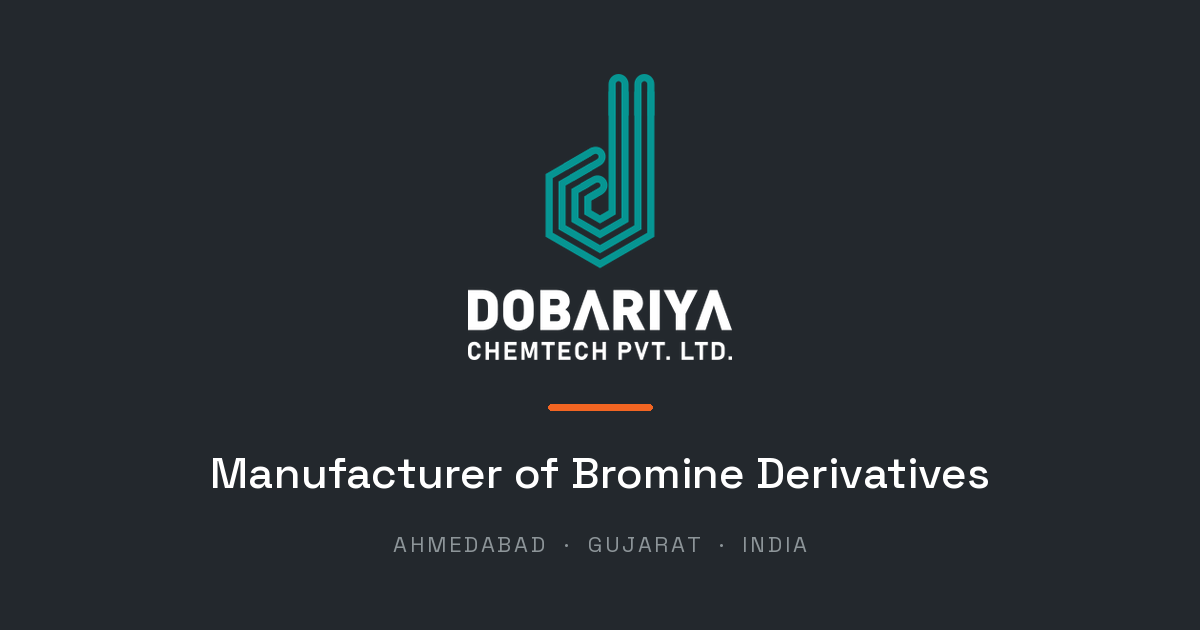
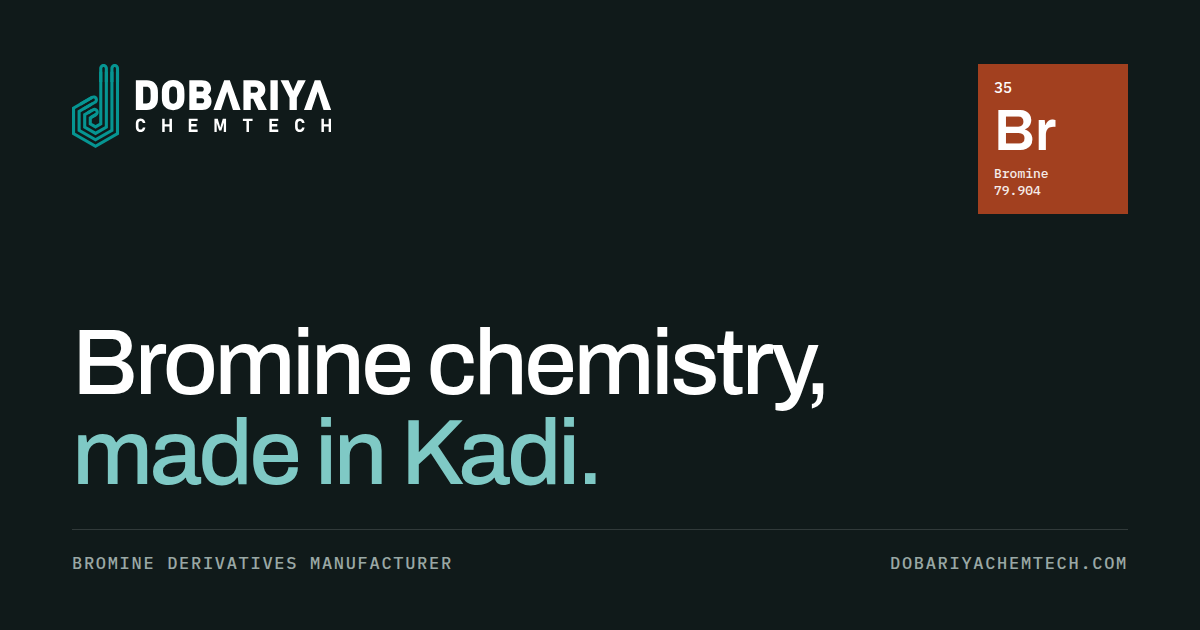
Launch prep: new OG image, accessibility fixes, viewport, richer Organization data
Claude-Session: https://claude.ai/code/session_012gzUtonvxK6iXoUmSgb4eT

diff --git a/src/styles/global.css b/src/styles/global.css
@@ -157,7 +157,8 @@ img { display: block; max-width: 100%; }
 .btn svg { width: 16px; height: 16px; flex: none; transition: transform 0.2s; }
 .btn:hover svg { transform: translateX(4px); }
 
-.btn--primary { background: var(--color-brand); color: #fff; }
+/* Slightly deeper teal than the logo so white button text passes WCAG AA (4.85:1) */
+.btn--primary { background: #057F7C; color: #fff; }
 .btn--primary:hover { background: var(--color-ink); }
 .on-dark .btn--primary:hover { background: #fff; color: var(--color-ink); }
 

diff --git a/REDESIGN.md b/REDESIGN.md
@@ -32,7 +32,8 @@ Swap a photo by replacing the file (same name) or changing the import. Quality h
 - [x] Day 1: tokens, Layout (fonts, overlay nav prop, counters, one-shot reveals), Navbar, Footer (reads contact.json / offices.json, dobariya.in link), full homepage in `components/home/`, shared `lib/catalog.ts`, `ui/PhotoSlot`, `ui/Arrow`.
 - [x] Day 2: shared `ui/PageHeader`, Products list (catalogue table + live search + family jump list), product detail (specimen tile, spec list, related, quote prefill `?product=`), Contact (new fields phone/product/quantity, `action="/thanks"`, map restyled), `/thanks` page (noindex, out of sitemap).
 - [x] Day 3: About (story + pull quote, capabilities, leadership, Dobariya Group panel with dobariya.in button, facilities, CtaStrip), Quality (commitments, document tiles, honest certification note), 404, photos (3 AI images), `ui/CtaStrip`. Em dashes in Shrut copy swapped for commas/colons, wording unchanged.
-- [ ] Day 4: feedback, performance, OG image, merge `cms-admin` in, launch prep.
+- [x] Day 4 (done early, 28 Sep): `cms-admin` merged in, new OG image, accessibility fixes (button contrast, table roles, footer headings), viewport, richer Organization JSON-LD. Lighthouse: SEO 100, accessibility 98 to 100, best practices 96.
+- [ ] Launch: see checklist below.
 
 ## Launch checklist (decide with Jaivin)
 - Decap `public/admin/config.yml` `backend.branch` is `cms-admin` and `site_url` points at the cms-admin preview. After the redesign merges to `main` and production switches to `main`, the CMS must target `main`, or edits never go live.
